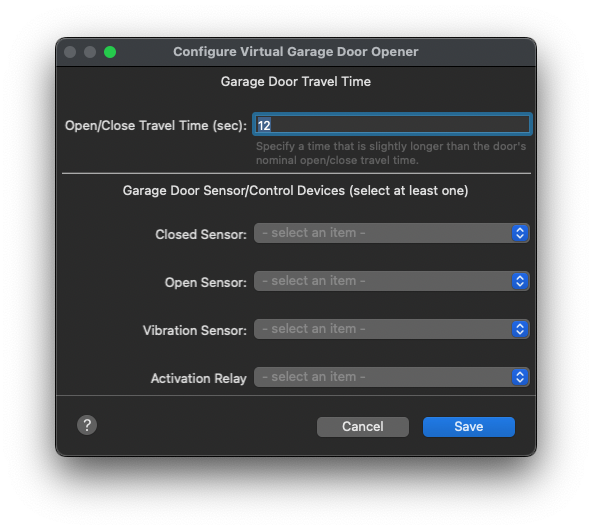
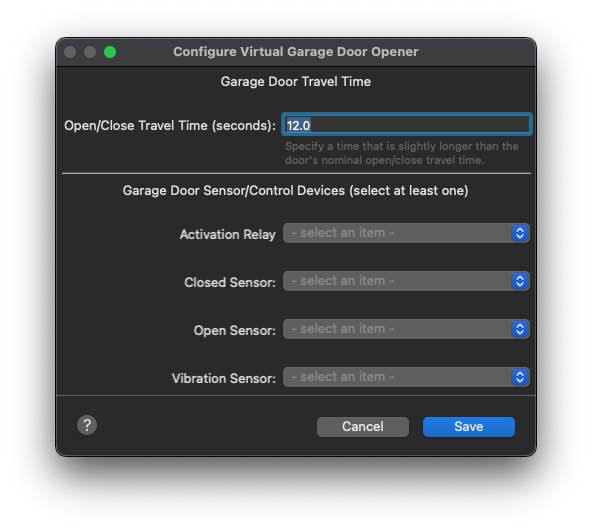
GitHub Release v1.0.1

diff --git a/Virtual Garage Door.indigoPlugin/Contents/Server Plugin/plugin.py b/Virtual Garage Door.indigoPlugin/Contents/Server Plugin/plugin.py
@@ -115,10 +115,10 @@ v0.9.6   7/20/2022  Use sleep for VS_TURNOFF vs Indigo device delayed action.
                     Updated README.md and its figures.
 v0.9.7   7/20/2022  Update comments in plugin.py.
 v1.0.0   7/22/2022  Initial GitHub release.
-v1.0.1   7/23/2022  Add a user specified vsResetDelay time to delay the vs
-                    reset after the door stops, preventing false vs activations
-                    from residual shaking.  Permit travel time to be a floating
-                    point number.
+v1.0.1   7/23/2022  Add a user-specified vsResetDelay time to delay the
+                    vibration sensor reset after the door stops. This prevents
+                    false vibration sensor activations from residual shaking.
+                    Permit travel time to be a floating point number.
 """
 ###############################################################################
 #                                                                             #
@@ -392,8 +392,9 @@ class Plugin(indigo.PluginBase):
         csState = states.get('cs')
         osState = states.get('os')
         doorState = 'open' if not csState and osState else 'closed'
-        self._updateDoorStates(dev, doorState)
         self._sequences[devId] = '<%s>' % doorState
+        if doorState != dev.states.get('doorStatus'):
+            self._updateDoorStates(dev, doorState)
 
     def deviceStopComm(self, dev):
         LOG.threaddebug('Plugin.deviceStopComm called "%s"', dev.name)
@@ -537,7 +538,7 @@ class Plugin(indigo.PluginBase):
 
         # Validate open/close travel time entry.
 
-        tTime = 0
+        tTime = 0  # Force an error if try fails.
         try:
             tTime = float(valuesDict['tTime'])
         except ValueError:
@@ -619,7 +620,7 @@ class Plugin(indigo.PluginBase):
                 # Validate the vs reset delay time.
 
                 if mDevType == 'vs':
-                    vsResetDelay = 0
+                    vsResetDelay = -1  # Force an error if try fails.
                     try:
                         vsResetDelay = float(valuesDict['vsResetDelay'])
                     except ValueError:

diff --git a/CHANGES.md b/CHANGES.md
@@ -4,6 +4,20 @@ Releases and major changes to the Virtual Garage Door plugin are described in
 this CHANGES.md file.  Changes of lesser importance may be described in the
 changes section of individual module docstrings if appropriate.
 
+## GitHub Release v1.0.1, July 23, 2022 ##
+
+### vibration sensor reset bug fix ###
+
+This release adds a new user-specified vibration sensor reset delay time to
+delay the sensor reset after the door stops. This prevents false vibration
+sensor activations from residual actuator shaking. The delay time defaults to
+1.5 seconds. This value works for papamac's opener, but may not be sufficient
+for yours. You may need to increase it if you experience false vibration sensor
+activations after the door stops.
+
+The change adds a new field in the opener device configuration UI. This
+requires that you delete and re-create your opener devices to use the change.
+
 ## Initial GitHub release v1.0.0, July 22, 2022 ##
 
 This is the initial version of the Virtual Garage Door plugin for Indigo.
